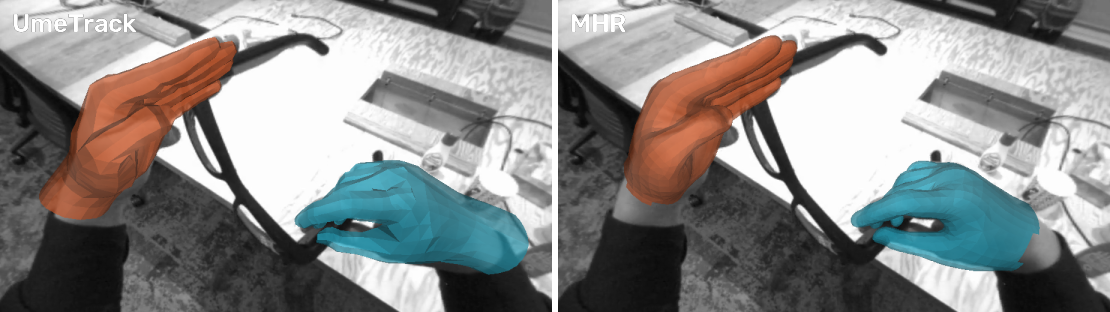
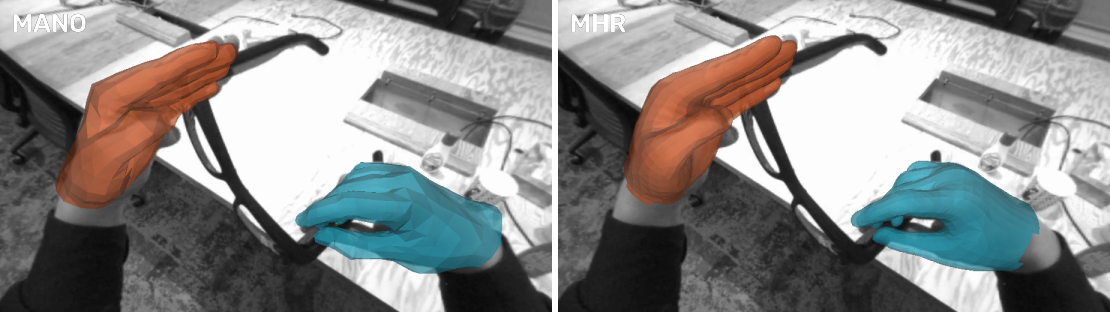
Show MANO and MHR in the hand mesh example image
docs/hand_mesh.png now shows frame 600 of ISH822/aria_inspecting_3ab0 in MANO
and MHR, the two hand models new in hand_pose v3, instead of UmeTrack and MHR.

diff --git a/README.md b/README.md
@@ -122,7 +122,7 @@ python -m show3d.demo_viz --root /path/to/show3d --scene ISH822/aria_inspecting_
     --model mhr --asset-dir /path/to/mhr/assets --video --num-frames 300 --out mhr.mp4
 ```
 
-Frame 600 of that scene, cropped to the hands, in UmeTrack and MHR (left hand
+Frame 600 of that scene, cropped to the hands, in MANO and MHR (left hand
 orange, right hand cyan):
 
 ![hand meshes](docs/hand_mesh.png)
